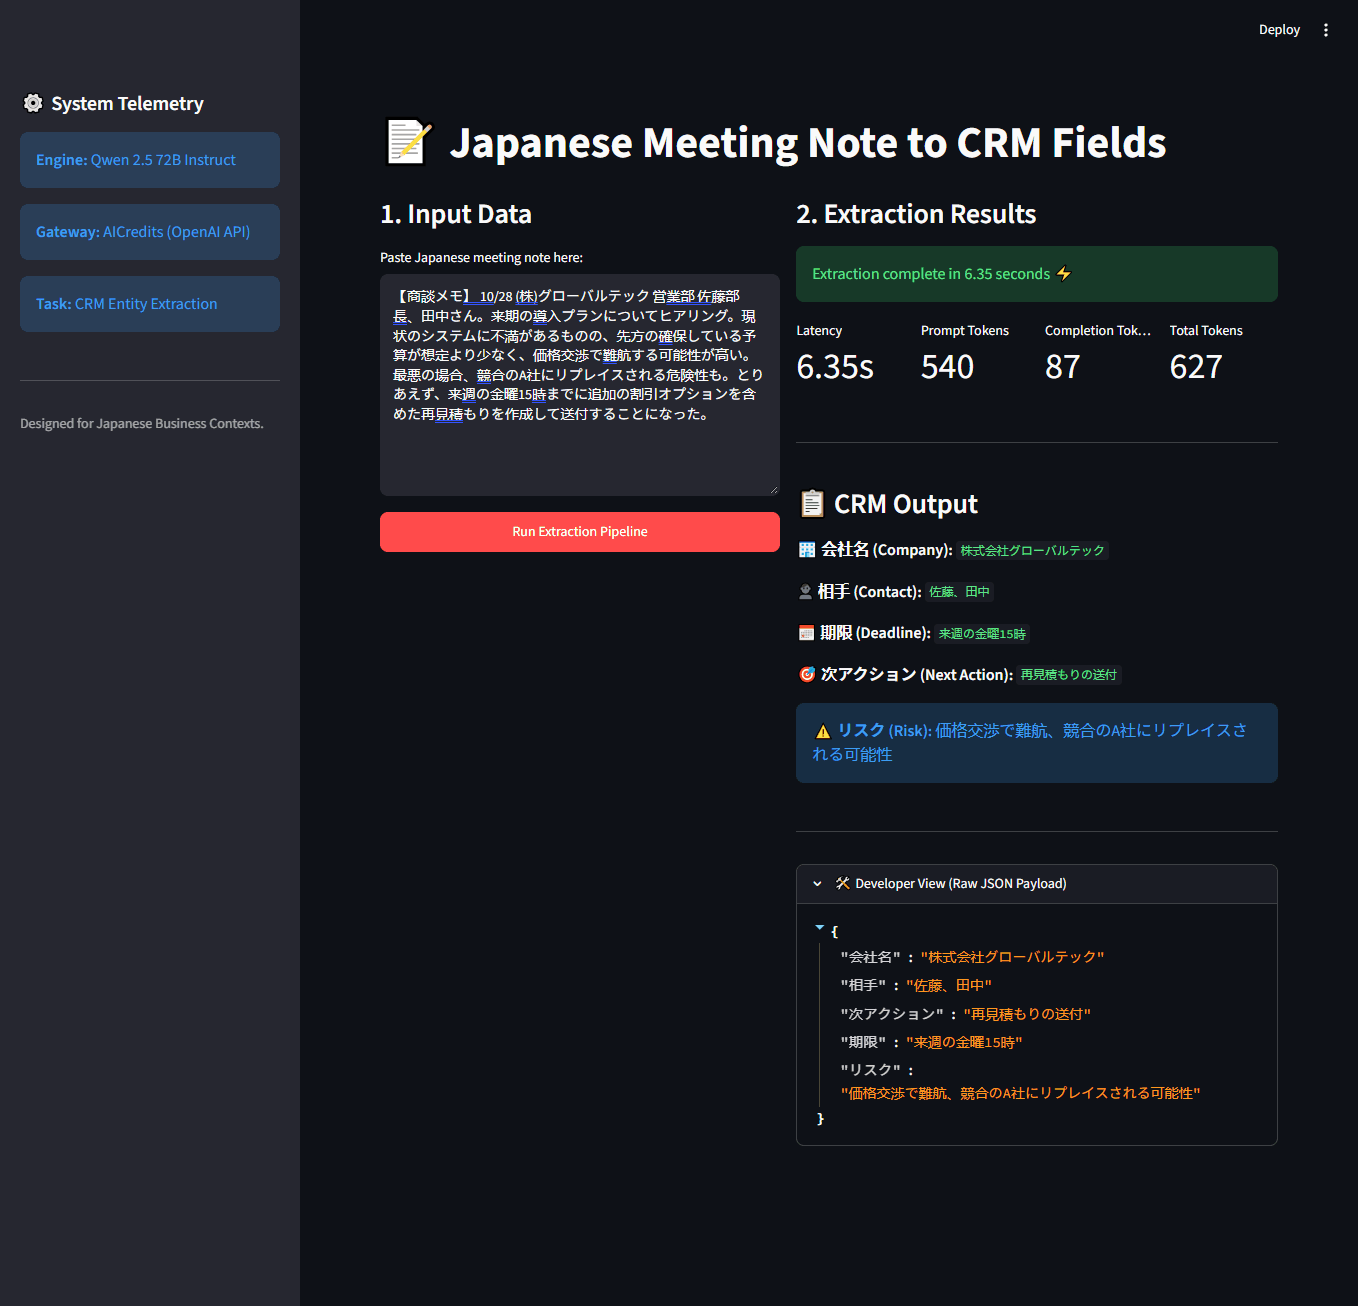
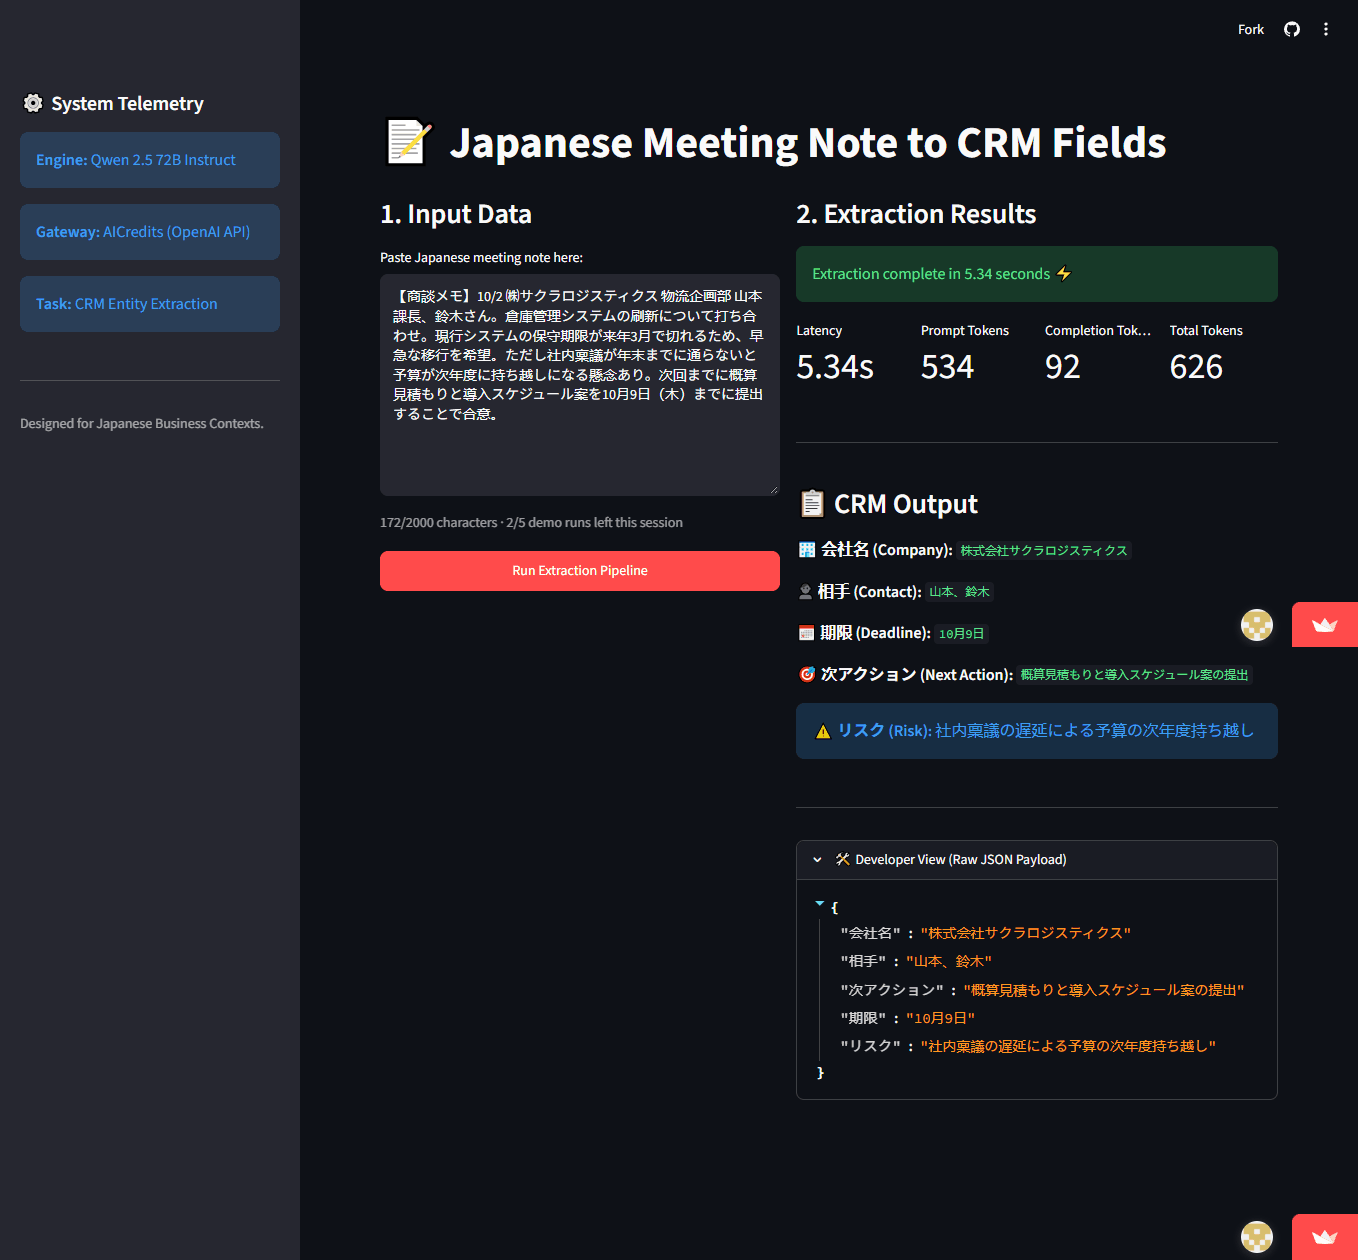
Replace screenshot with the live deployed app (fictional sample note)

diff --git a/README.md b/README.md
@@ -60,14 +60,14 @@ Per-field accuracy for iteration 3:
 
 ![Streamlit app: Japanese meeting note → CRM fields](docs/screenshot.png)
 
-*Streamlit app on a fictional sample note, showing latency/token telemetry and the raw JSON output.*
+*The live deployed app (Streamlit Community Cloud) on a fictional sample note, showing latency/token telemetry, the demo-limit counter, and the raw JSON output.*
 
 ## 📂 Repository Structure
 ```text
 ├── data/
 │   └── gold_30.jsonl          # 30-note labeled evaluation dataset
 ├── docs/
-│   └── screenshot.png         # Streamlit app screenshot (fictional sample note)
+│   └── screenshot.png         # Live app screenshot (fictional sample note)
 ├── eval/
 │   ├── results.md             # Accuracy metrics and extraction failure logs
 │   └── run_eval.py            # Automated evaluation execution script
